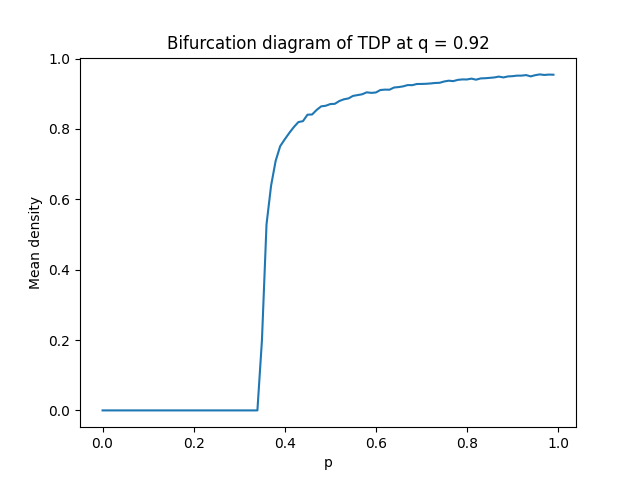
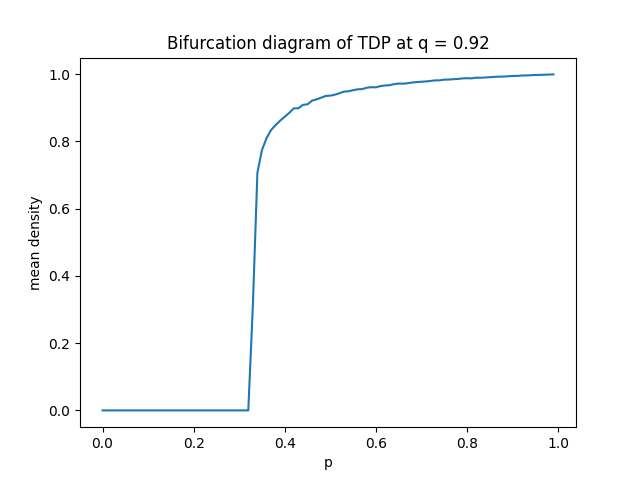
Initialized worker to generate bif diagram

diff --git a/models/tricritical/main.py b/models/tricritical/main.py
@@ -11,28 +11,27 @@ import os
 @njit(nogil=True, fastmath=True)
 def update(lattice, p, q):
     for _ in range(length * length):
-        i, j = get_random_site(lattice)
+        focal_i = randint(0, length)
+        focal_j = randint(0, length)
 
-        if i == -1 and j == -1:
-            return
-        else:
-            new_i, new_j = get_random_neighbour(i, j)
+        if lattice[focal_i, focal_j]:
+            neigh_i, neigh_j = get_random_neighbour(focal_i, focal_j)
 
-            if lattice[new_i, new_j] == 0:
+            if lattice[neigh_i, neigh_j] == 0:
                 if random() < p:
-                    # birth
-                    lattice[new_i, new_j] = 1
+                    # contact process birth with probability p
+                    lattice[neigh_i, neigh_j] = 1
                 else:
-                    # death
-                    lattice[i, j] = 0
+                    # contact process death with probability 1 - p
+                    lattice[focal_i, focal_j] = 0
             else:
                 if random() < q:
-                    # positive feedback birth
-                    third_i, third_j = get_pair_neighbour(i, j, new_i, new_j)
+                    # positive feedback birth with probability q
+                    third_i, third_j = get_pair_neighbour(focal_i, focal_j, neigh_i, neigh_j)
                     lattice[third_i, third_j] = 1
-                else:
-                    # density death
-                    lattice[i, j] = 0
+                elif random() < 1 - p:
+                    # pair death with probability with probability (1 - p) (1 - q)
+                    lattice[focal_i, focal_j] = 0
 
 
 @njit(nogil=True, fastmath=True)
@@ -147,7 +146,7 @@ def tricritical(p_ext = 0.5, q_ext = 0.5, num_parallel = 10, save = False):
     # model parameters
     global length, time, p, q
     length = 100
-    time = 100
+    time = 1000
     p = p_ext
     q = q_ext
 

diff --git a/terminal.py b/terminal.py
@@ -18,10 +18,34 @@ from utils import load_automaton_data
 if __name__ == '__main__':
     """ Write automated scripts here """
 
-    tricritical(0.5, 0.5, 1, True)
-    automaton_data = load_automaton_data("tricritical", 0)
-    time_series_data, info = automaton_data["time_series"], automaton_data["info"]
+    # phase transition
+    p_range = arange(0, 1, 0.01)
+    densities = zeros(len(p_range))
 
-    analyse_changes(time_series_data[0], time_series_data[1])
+    for i, p in enumerate(p_range):
+        print(f"p: {p}")
+        densities[i] = tricritical(p, 0,  save = False)
 
-    purge_data()
+    plt.title("Bifurcation diagram of TDP for q = 0")
+    plt.xlabel("p")
+    plt.ylabel("mean density")
+    plt.plot(p_range, densities)
+    plt.show()
+    plt.savefig("bifurcation_diagram.png")
+
+    # phase diagram
+    # p_range = arange(0, 1, 0.01)
+    # q_range = arange(0, 1, 0.01)
+    # densities = zeros((len(p_range), len(q_range)))
+
+    # for i, p in enumerate(p_range):
+    #     for j, q in enumerate(q_range):
+    #         print(f"p: {p}, q: {q}")
+    #         densities[j, i] = tricritical(p, q, 8, False)
+    
+    # plt.title("Phase diagram of TDP")
+    # plt.xlabel("p")
+    # plt.ylabel("q")
+    # plt.imshow(densities, origin="lower", extent=[0, 1, 0, 1])
+    # plt.show()
+    # plt.savefig("phase_diagram.png")
